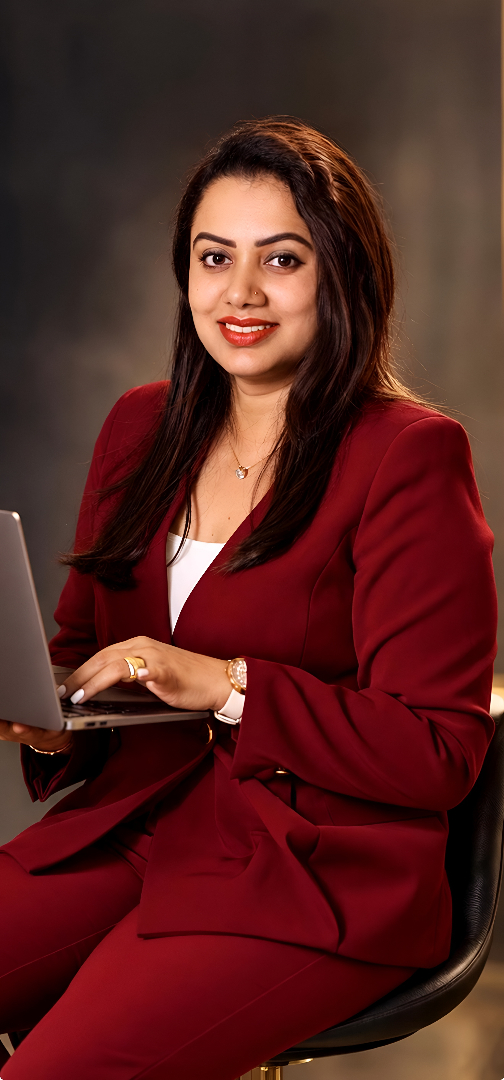
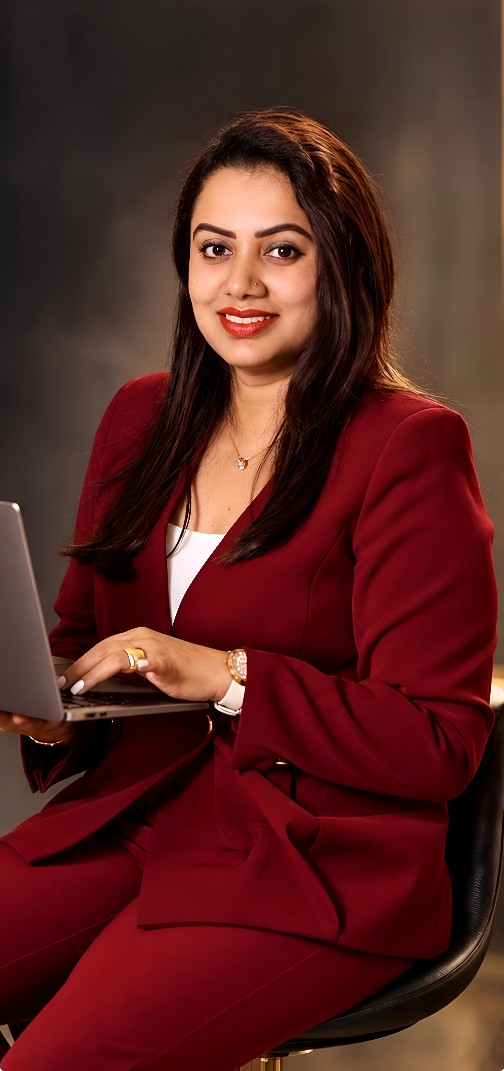
feat: add Hero component with custom styling and assets

diff --git a/src/components/Hero.css b/src/components/Hero.css
@@ -252,8 +252,8 @@
 .hero-ref__stage {
   position: relative;
   width: 100%;
-  max-width: 520px;
-  height: 560px;
+  max-width: 540px;
+  height: 600px;
   display: flex;
   justify-content: center;
   align-items: flex-end;
@@ -262,11 +262,11 @@
 /* 1. Large Circular Rotating Text Ring */
 .hero-ref__circle-text-wrap {
   position: absolute;
-  top: 25px;
+  top: -15px;
   left: 50%;
   transform: translateX(-50%);
-  width: 440px;
-  height: 440px;
+  width: 530px;
+  height: 530px;
   pointer-events: none;
   z-index: 1;
 }
@@ -276,14 +276,15 @@
   height: 100%;
   animation: rotateCircleText 55s linear infinite;
   transform-origin: center;
+  overflow: visible;
 }
 
 .hero-ref__curved-text {
   font-family: var(--font-heading);
-  font-size: 10px;
-  font-weight: 700;
-  letter-spacing: 0.22em;
-  fill: rgba(23, 23, 23, 0.32);
+  font-size: 10.5px;
+  font-weight: 800;
+  letter-spacing: 0.20em;
+  fill: rgba(15, 23, 42, 0.45);
   text-transform: uppercase;
 }
 
@@ -330,9 +331,9 @@
 .hero-ref__portrait-wrapper {
   position: relative;
   z-index: 3;
-  width: 310px;
-  height: 460px;
-  border-radius: 155px 155px 36px 36px;
+  width: 340px;
+  height: 570px;
+  border-radius: 170px 170px 36px 36px;
   overflow: hidden;
   box-shadow: 0 24px 60px rgba(0, 0, 0, 0.16), 0 4px 18px rgba(255, 59, 11, 0.08);
   border: 4px solid #ffffff;
@@ -343,7 +344,7 @@
   width: 100%;
   height: 100%;
   object-fit: cover;
-  object-position: center 18%;
+  object-position: center 30%;
   display: block;
   filter: drop-shadow(0 8px 24px rgba(0, 0, 0, 0.06));
 }
@@ -694,20 +695,20 @@
 
   .hero-ref__stage {
     max-width: 100%;
-    height: 510px;
+    height: 540px;
     overflow: visible;
   }
 
   .hero-ref__circle-text-wrap {
-    width: 350px;
-    height: 350px;
-    top: 15px;
+    width: 440px;
+    height: 440px;
+    top: -15px;
   }
 
   .hero-ref__portrait-wrapper {
-    width: 300px;
-    height: 445px;
-    border-radius: 150px 150px 32px 32px;
+    width: 290px;
+    height: 500px;
+    border-radius: 145px 145px 32px 32px;
   }
 
   .hero-ref__orange-wave {
@@ -764,18 +765,19 @@
   }
 
   .hero-ref__stage {
-    height: 470px;
+    height: 500px;
   }
 
   .hero-ref__circle-text-wrap {
-    width: 310px;
-    height: 310px;
+    width: 380px;
+    height: 380px;
+    top: -10px;
   }
 
   .hero-ref__portrait-wrapper {
-    width: 275px;
-    height: 410px;
-    border-radius: 138px 138px 28px 28px;
+    width: 270px;
+    height: 465px;
+    border-radius: 135px 135px 28px 28px;
   }
 
   .hero-ref__mentor-card {

diff --git a/src/components/Hero.jsx b/src/components/Hero.jsx
@@ -124,16 +124,16 @@ export default function Hero() {
             <div className="hero-ref__stage">
               {/* 1. Large Circular Rotating Text Ring behind portrait */}
               <div className="hero-ref__circle-text-wrap" aria-hidden="true">
-                <svg viewBox="0 0 440 440" className="hero-ref__circle-svg">
+                <svg viewBox="0 0 540 540" className="hero-ref__circle-svg">
                   <defs>
                     <path
                       id="circleTextPath"
-                      d="M 220, 220 m -205, 0 a 205,205 0 1,1 410,0 a 205,205 0 1,1 -410,0"
+                      d="M 270, 270 m -248, 0 a 248,248 0 1,1 496,0 a 248,248 0 1,1 -496,0"
                     />
                   </defs>
                   <text className="hero-ref__curved-text">
                     <textPath href="#circleTextPath" startOffset="0%">
-                      • EDUZY GLOBAL ACADEMY • CAMPUS TO CAREER • 10+ YEARS EXCELLENCE • BUILD YOUR GLOBAL FUTURE • EDUZY GLOBAL ACADEMY • CAMPUS TO CAREER • 10+ YEARS EXCELLENCE •
+                      • EDUZY GLOBAL ACADEMY • CAMPUS TO CAREER • 10+ YEARS EXCELLENCE • BUILD YOUR GLOBAL FUTURE • EDUZY GLOBAL ACADEMY • CAMPUS TO CAREER • 10+ YEARS EXCELLENCE • BUILD YOUR GLOBAL FUTURE •
                     </textPath>
                   </text>
                 </svg>
@@ -150,8 +150,8 @@ export default function Hero() {
                   src={heroMentorImg}
                   alt="Rose - Founder & Chief Mentor at EDUZY"
                   className="hero-ref__portrait-img"
-                  width="480"
-                  height="640"
+                  width="504"
+                  height="1071"
                   loading="eager"
                 />
               </div>
